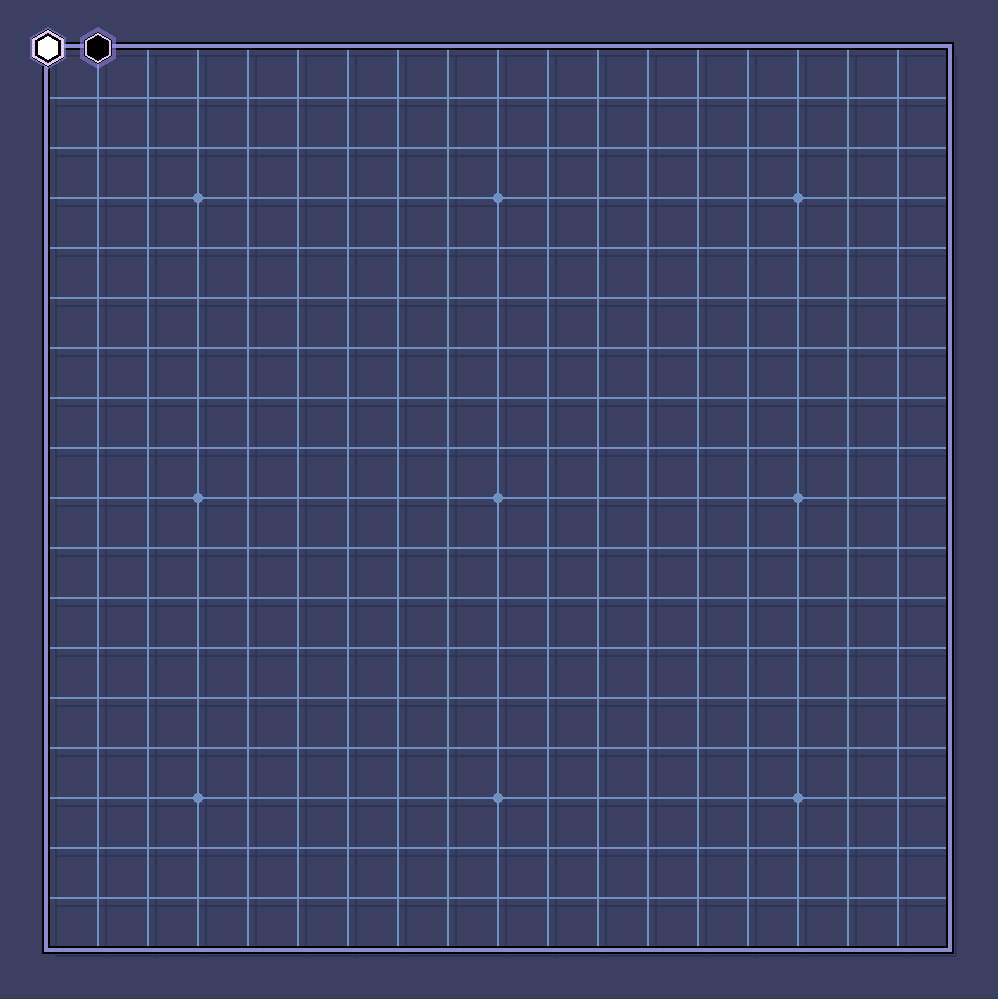
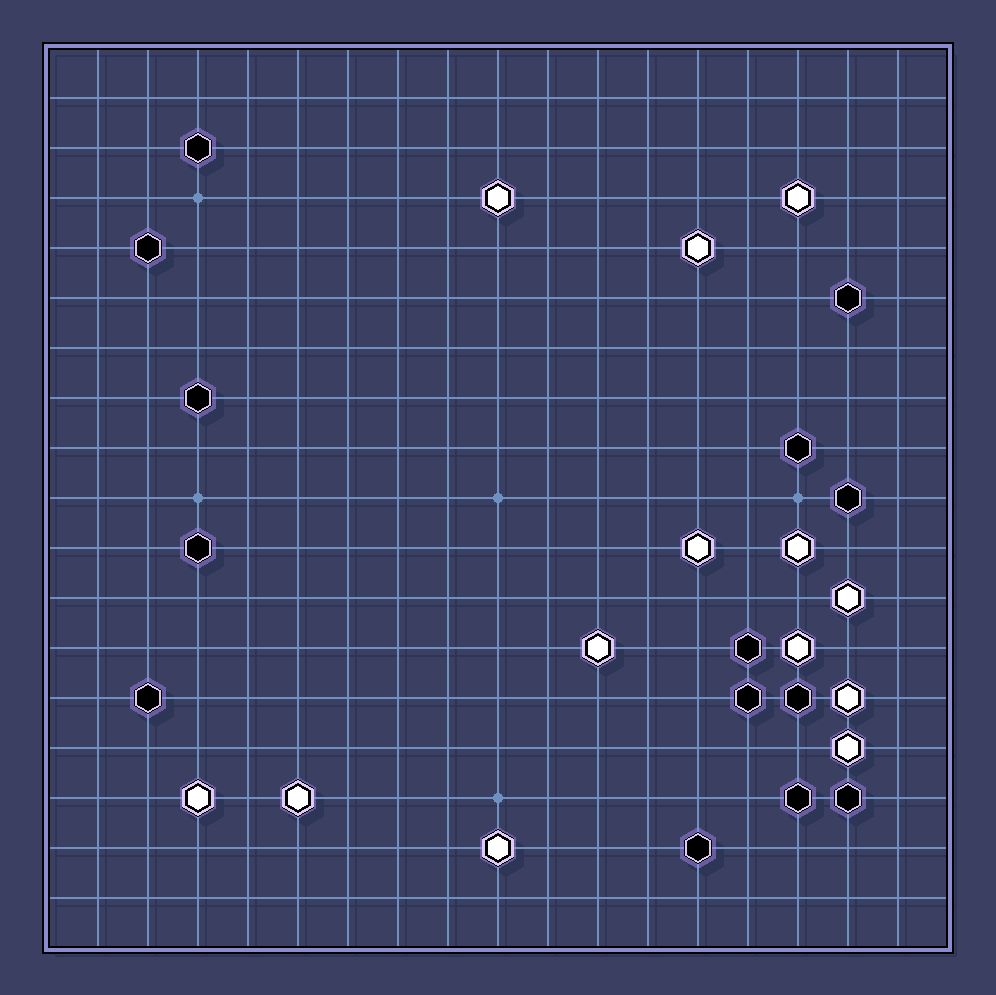
Add game module

diff --git a/src/main.rs b/src/main.rs
@@ -1,6 +1,7 @@
 extern crate piston_window;
 extern crate glutin;
 
+mod game;
 mod board;
 mod stone;
 mod settings;
@@ -11,8 +12,7 @@ use piston_window::clear;
 use piston_window::types::Color;
 use glutin::MouseCursor;
 
-use board::Board;
-use stone::StoneType;
+use game::Game;
 
 const WINDOW_TITLE: &'static str = "Fancy Go";
 const WINDOW_SIZE: [u32; 2] = [1000, 1000];
@@ -24,7 +24,8 @@ fn main() {
     let mut window: PistonWindow = WindowSettings::new(WINDOW_TITLE, WINDOW_SIZE)
             .exit_on_esc(true).build().unwrap();
 
-    let mut board = Board::new(50.0, 50.0);
+    // Create a game
+    let mut game = Game::new([50.0, 50.0]);
 
     // Mouse position
     let (mut mouse_x, mut mouse_y): (f64, f64) = (0.0, 0.0);
@@ -35,8 +36,8 @@ fn main() {
         // Press Event
         if let Some(Button::Mouse(MouseButton::Left)) = event.press_args() {
             // println!("Pressed at {}, {}", mouse_x, mouse_y);
-            if board.is_placeable(mouse_x, mouse_y) {
-                board.place_a_stone(mouse_x, mouse_y, StoneType::WHITE);
+            if game.is_placeable(mouse_x, mouse_y) {
+                game.place_a_stone(mouse_x, mouse_y);
             }
         }
 
@@ -45,7 +46,7 @@ fn main() {
             mouse_x = mouse_pos[0];
             mouse_y = mouse_pos[1];
 
-            if board.is_placeable(mouse_x, mouse_y) {
+            if game.is_placeable(mouse_x, mouse_y) {
                 window.window.window.set_cursor(MouseCursor::Hand);
             } else {
                 window.window.window.set_cursor(MouseCursor::Default);
@@ -56,7 +57,7 @@ fn main() {
         window.draw_2d(&event, |c, g| {
             clear(BACK_COLOR, g);
 
-            board.draw(&c, g);
+            game.draw(&c, g);
         });
 
         // Update the state of the game

diff --git a/src/game.rs b/src/game.rs
@@ -1,0 +1,36 @@
+
+use piston_window::{Context, G2d};
+
+use board::Board;
+use stone::StoneType;
+
+pub struct Game {
+    board: Board,
+    next_stone_type: StoneType
+}
+
+impl Game {
+    pub fn new(board_pos: [f64; 2]) -> Game {
+        Game {
+            board: Board::new(board_pos[0], board_pos[1]),
+            next_stone_type: StoneType::BLACK
+        }
+    }
+
+    pub fn place_a_stone(&mut self, pos_x: f64, pos_y: f64) {
+        let next_type = self.next_stone_type;
+        self.next_stone_type = match next_type {
+            StoneType::BLACK => StoneType::WHITE,
+            StoneType::WHITE => StoneType::BLACK
+        };
+        self.board.place_a_stone(pos_x, pos_y, next_type);
+    }
+
+    pub fn is_placeable(&self, pos_x: f64, pos_y: f64) -> bool {
+        self.board.is_placeable(pos_x, pos_y)
+    }
+
+    pub fn draw(&self, con: &Context, g: &mut G2d) {
+        self.board.draw(con, g);
+    }
+}

diff --git a/src/stone.rs b/src/stone.rs
@@ -8,6 +8,7 @@ use piston_window::polygon;
 use settings::{STONE_RADIUS, SHADOW_OFFSET, SHADOW_COLOR};
 use settings::{BLACK_COLOR, PURPLE_COLOR, WHITE_PURPLE_COLOR, WHITE_COLOR};
 
+#[derive(Clone, Copy)]
 pub enum StoneType {
     BLACK, WHITE
 }

diff --git a/README.md b/README.md
@@ -2,6 +2,10 @@
 
 It is still under developed.
 
+## Current Status
+
+You can place some stones on the board by pressing left mouse button.
+
 ## Screenshot
 
 <img src="screenshot.png" />
